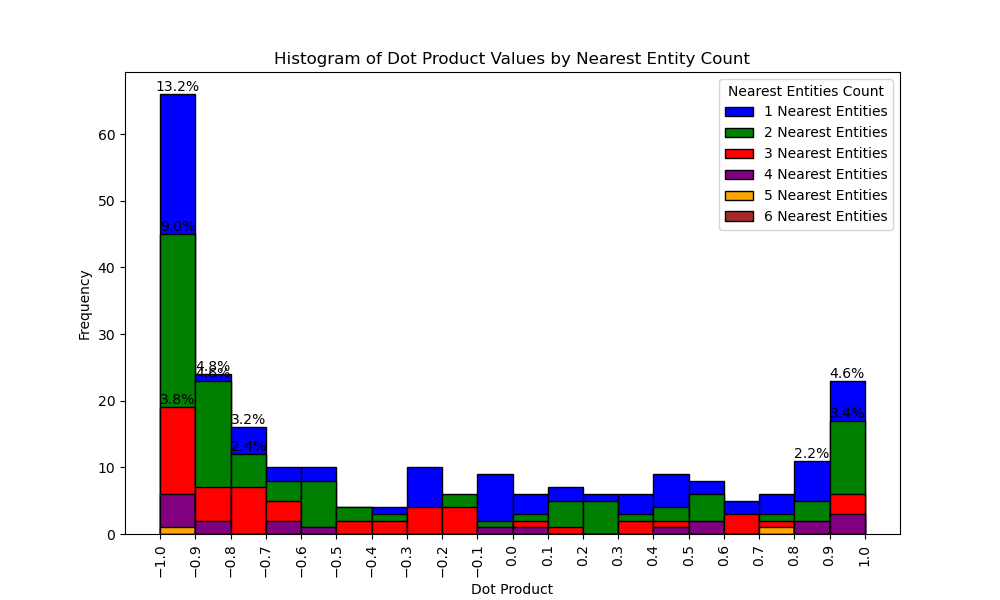
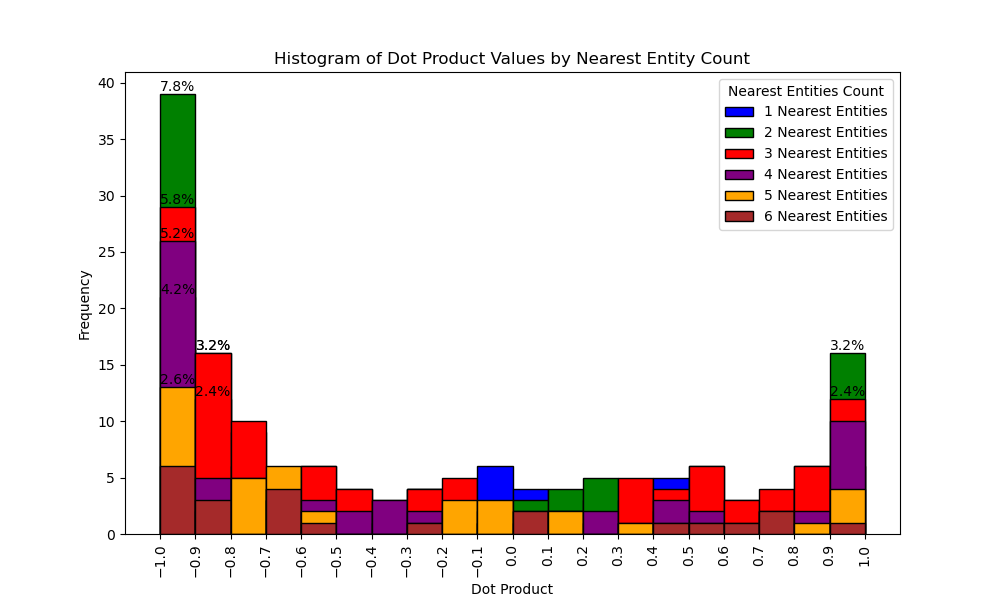
Updating the plot

diff --git a/dotProductandPlot.py b/dotProductandPlot.py
@@ -46,53 +46,12 @@ columns_to_save = ['player_file', 'closest_entity_file', 'player_x_position', 'p
                    'one_entity_within_radius_3_and_dot_0_8']
 
 # Save the selected columns to a new CSV file
-# data[columns_to_save].to_csv('closest_entity_results_with_dot_product_and_conditions.csv', index=False)
-data[columns_to_save].to_csv('closest_entity_results_with_dot_product.csv', index=False)
+data[columns_to_save].to_csv('data/closest_entity_results_with_dot_product.csv', index=False)
 
 print("Dot product and conditions calculated and saved to 'closest_entity_results_with_dot_product_and_conditions.csv'")
 
 
-
-
-
-# # Load the data
-# data = pd.read_csv('closest_entity_results.csv')
-#
-# # Calculate the vector A (from player to entity)
-# data['vector_a_x'] = data['entity_x_position'] - data['player_x_position']
-# data['vector_a_y'] = data['entity_y_position'] - data['player_y_position']
-#
-# # Calculate the magnitude of vector A
-# data['magnitude_a'] = np.sqrt(data['vector_a_x']**2 + data['vector_a_y']**2)
-#
-# # Normalize vector A to a unit vector
-# data['unit_vector_a_x'] = data['vector_a_x'] / data['magnitude_a']
-# data['unit_vector_a_y'] = data['vector_a_y'] / data['magnitude_a']
-#
-# # Calculate the magnitude of vector B (player's facing direction)
-# data['magnitude_b'] = np.sqrt(data['controlX_player']**2 + data['controlY_player']**2)
-#
-# # Normalize vector B to a unit vector
-# data['unit_vector_b_x'] = data['controlX_player'] / data['magnitude_b']
-# data['unit_vector_b_y'] = data['controlY_player'] / data['magnitude_b']
-#
-# # Calculate the dot product of A_bar and B_bar
-# data['dot_product'] = (data['unit_vector_a_x'] * data['unit_vector_b_x'] +
-#                        data['unit_vector_a_y'] * data['unit_vector_b_y'])
-#
-# # Select only the columns you want to save
-# columns_to_save = ['player_x_position', 'player_y_position', 'controlX_player', 'controlY_player',
-#                    'entity_x_position', 'entity_y_position', 'dot_product']
-#
-# # Save the selected columns to a new CSV file
-# data[columns_to_save].to_csv('closest_entity_results_with_dot_product.csv', index=False)
-#
-# print("Dot product calculated and saved to 'closest_entity_results_with_dot_product.csv'")
-
-
-# Load the data
-# data = pd.read_csv('closest_entity_results.csv')
-
+# Code for plot starts here
 # Create the histogram with bins of size 0.1
 bins = [-1 + i * 0.1 for i in range(21)]  # Generates bins from -1 to 1 in steps of 0.1
 plt.figure(figsize=(10, 6))
@@ -104,36 +63,10 @@ plt.ylabel('Frequency')
 plt.title('Histogram of Dot Product Values')
 plt.xticks(bins, rotation=90)  # Set x-ticks to align with bin edges, rotated for readability
 
-plt.savefig('dot_product_histogram_0.1_intervals.png')
+plt.savefig('plot/dot_product_histogram_0.1_intervals.png')
 
 # Show the plot
 plt.show()
 
 
 
-
-
-
-
-
-
-
-#
-# # Load the data
-# data = pd.read_csv('closest_entity_results_with_dot_product.csv')
-#
-# # Create the histogram with bins of size 0.2
-# bins = [-1, -0.8, -0.6, -0.4, -0.2, 0, 0.2, 0.4, 0.6, 0.8, 1]
-# plt.figure(figsize=(10, 6))
-# plt.hist(data['dot_product'], bins=bins, edgecolor='black')
-#
-# # Add labels and title
-# plt.xlabel('Dot Product')
-# plt.ylabel('Frequency')
-# plt.title('Histogram of Dot Product Values')
-# plt.xticks(bins)  # Set x-ticks to align with bin edges
-#
-# plt.savefig('dot_product_histogram.png')
-#
-# # Show the plot
-# plt.show()

diff --git a/direction.py b/direction.py
@@ -5,9 +5,9 @@ import io
 
 # Environment variables for paths
 # for data inside game_data folder
-root_path = os.getenv('ROOT_PATH')
+root_path = "/nfs/ltgroup/TORIN/for_manjil/game_data"
 # for verified.csv
-verified_root_path = os.getenv('DATASET')
+verified_root_path = "/nfs/ltgroup/TORIN/for_manjil"
 base_path = "/nfs/ltgroup/TORIN/for_manjil/game_data/"
 column_names = ['timestamp', 'posX', 'posY', 'angle', 'accelX', 'accelY', 'velocityX', 'velocityY', 'controlX',
                 'controlY', 'disable', 'userControl', 'userInputX', 'userInputY', 'isTouching', 'motionX', 'motionY',
@@ -94,7 +94,7 @@ player_data_files = find_unsuccessful_player_data_files(root_path, folder_names)
 print(len(player_data_files))
 
 
-def find_matching_entity_files(root_dir, player_file_pattern):
+def find_matching_entity_files():
     """
         Find entity files that match the level and attempt of player data files.
         Returns a dictionary mapping player files to their corresponding entity files.
@@ -124,7 +124,7 @@ root_dir = "/nfs/ltgroup/TORIN/for_manjil/game_data"
 player_file_pattern = os.path.join(root_dir, "**", "player.*.data.csv")
 
 # Find all matching entity files for each player data file
-player_entity_pairs = find_matching_entity_files(root_dir, player_file_pattern)
+player_entity_pairs = find_matching_entity_files()
 
 
 def calculate_distance(x1, y1, x2, y2):
@@ -158,7 +158,7 @@ def find_closest_entity(player_file, entity_files):
         distance = calculate_distance(player_pos[0], player_pos[1], entity_pos[0], entity_pos[1])
         entity_pos = (last_frame_entity['posX'][0], last_frame_entity['posY'][0])
 
-        if distance <= 3:
+        if distance <= 5:
             count += 1
 
         # Update closest entity if this one is closer
@@ -206,5 +206,5 @@ for player_file, entity_files in player_entity_pairs.items():
 results_df = pd.DataFrame(results)
 
 # Save the DataFrame to a CSV file
-results_df.to_csv('closest_entity_results.csv', index=False)
+results_df.to_csv('data/closest_entity_results.csv', index=False)
 

diff --git a/plot2.py b/plot2.py
@@ -1,0 +1,19 @@
+import pandas as pd
+import matplotlib.pyplot as plt
+
+# Load the data
+data = pd.read_csv('data/closest_entity_results_with_dot_product.csv')
+
+# Plotting the scatter plot
+plt.figure(figsize=(10, 6))
+plt.scatter(data['dot_product'], data['Nearest Entity Count'], alpha=0.5)  # alpha for transparency
+
+# Add labels and title
+plt.xlabel('Dot Product (Obstacle Heading)')
+plt.ylabel('Number of Nearest Entities')
+plt.title('Scatter Plot of Collisions by Obstacle Heading and Nearest Entity Count')
+plt.grid(True)
+
+plt.savefig('plot/dot_product_scatterplot_colored_by_entity_count.png')
+# Show the plot
+plt.show()

diff --git a/plot.py b/plot.py
@@ -48,7 +48,7 @@ from matplotlib.patches import Patch
 legend_elements = [Patch(facecolor=colors[i], edgecolor='black', label=f'{i+1} Nearest Entities') for i in range(len(colors))]
 plt.legend(handles=legend_elements, title='Nearest Entities Count')
 
-plt.savefig('dot_product_histogram_colored_by_entity_count.png')
+plt.savefig('plot/dot_product_histogram_colored_by_entity_count.png')
 
 # Show the plot
 plt.show()
